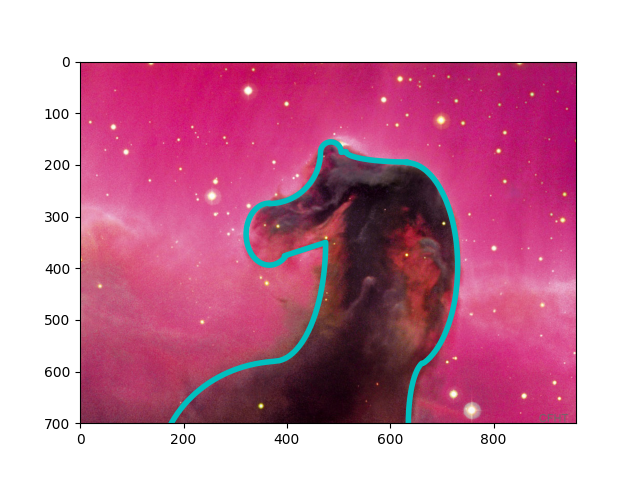
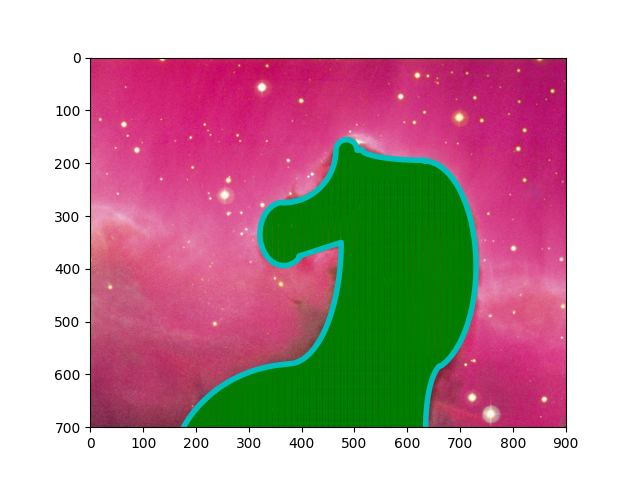
ffkyf

diff --git a/lec_1_scalar_fields.py b/lec_1_scalar_fields.py
@@ -1,0 +1,62 @@
+import numpy as np
+from scipy import interpolate
+import matplotlib.pyplot as plt
+import shapely.geometry as geom
+
+phi = np.linspace(0, 2*np.pi, 100)
+R = 1
+array_x = R * np.cos(phi)
+array_y = R * np.sin(phi)
+
+spline_coords, figure_spline_part = interpolate.splprep([array_x, array_y], s=0)
+spline_curve = interpolate.splev(figure_spline_part, spline_coords)
+
+curve_coords = []
+for i in range(len(spline_curve[0])):
+    curve_coords.append([spline_curve[0][i], spline_curve[1][i]])
+
+polygon = geom.Polygon(curve_coords)
+points_numper_per_side = 100
+x_pictures_limits = [-1.0, 1.0]
+y_pictures_limits = [-1.0, 1.0]
+
+points_coords = []
+for x_point_coord in np.linspace(*x_pictures_limits, points_numper_per_side):
+    for y_point_coord in np.linspace(*y_pictures_limits, points_numper_per_side):
+        p = geom.Point(x_point_coord, y_point_coord)
+        if p.within(polygon):
+            points_coords.append(x_point_coord)
+            points_coords.append(y_point_coord)
+
+x_p = np.array(points_coords[0::2])
+y_p = np.array(points_coords[1::2])
+
+def bell_function(x, y, intensity=1, dec_rate=[0.5, 0.5]):
+    scalar_func = intensity * np.exp(- dec_rate[0]*x**2 - dec_rate[1]*y**2) 
+    return scalar_func
+
+intensity_centerums_x = [-0.5, 0.5, -0.4, 0.0, 0.4]
+intensity_centerums_y = [0.3, 0.3, -0.5, -0.7, -0.5]
+intensity_values = [1.7, 1.7, 1, 0.7, 1]
+
+def scalar_function(x, y, int_cen_x, int_cen_y, int_vel):
+    scalar_field = 0.0
+    for i in range(0, len(int_cen_x)):
+        scalar_field += int_vel[i] * bell_function(x-int_cen_x[i], y-int_cen_y[i], 30, [5, 5])
+    return scalar_field
+
+scalar_fields = []
+for i in range(0, len(x_p)):
+    calculate = scalar_function(x_p[i], y_p[i], intensity_centerums_x, 
+                                intensity_centerums_y, intensity_values)
+    scalar_fields.append(calculate)
+
+fig, ax = plt.subplots()
+sc_plot = ax.scatter(x_p, y_p, c=scalar_fields)
+ax.set_ylabel('Координата Х, м')
+ax.set_xlabel('Координата Y, м')
+
+cbar = fig.colorbar(sc_plot)
+cbar.set_label("Комбинированное скалярное поле")
+
+plt.savefig('complex_scalar_fields.png')

diff --git a/lec_1_bell_function.py b/lec_1_bell_function.py
@@ -1,0 +1,52 @@
+import matplotlib.pyplot as plt 
+import numpy as np 
+from scipy import interpolate 
+import shapely.geometry as geom 
+ 
+ 
+ 
+phi = np.linspace(0, 2*np.pi, 100) 
+ 
+R = 1 
+array_x = R *np.cos(phi) 
+array_y = R *np.sin(phi) 
+ 
+spline_coords, figure_spline_part = interpolate.splprep([array_x, array_y], s=0) 
+spline_curve = interpolate.splev(figure_spline_part, spline_coords) 
+ 
+curve_coords = [] 
+points_coords = [] 
+ 
+for i in range(len(spline_curve[0])): 
+    curve_coords.append([spline_curve[0][i], spline_curve[1][i]]) 
+ 
+polygon = geom.Polygon(curve_coords) 
+points_number_per_side = 100 
+x_pictures_limits = [-1, 1] 
+y_pictures_limits = [-1, 1] 
+ 
+ 
+for x_point_coord in np.linspace(*x_pictures_limits, points_number_per_side): 
+    for y_point_coord in np.linspace(*y_pictures_limits, points_number_per_side): 
+        p = geom.Point(x_point_coord, y_point_coord) 
+        if p.within(polygon): 
+            points_coords.append(x_point_coord) 
+            points_coords.append(y_point_coord) 
+ 
+ 
+x_p = np.array(points_coords[0::2]) 
+y_p = np.array(points_coords[1::2]) 
+def bell_function(x, y, intensity = 1, dec_rate = [0.5, 0.5]): 
+    scalar_field = intensity * np.exp(-dec_rate[0] *x**2 - dec_rate[1] * y**2) 
+    return scalar_field 
+ 
+fig, ax = plt.subplots() 
+ 
+sc_plot = ax.scatter(x_p, y_p, c = bell_function(x_p, y_p, 5, [0.5, 0.5])) 
+ax.set_xlabel('координата x, м') 
+ax.set_ylabel('координата y, м') 
+ 
+cbar = fig.colorbar(sc_plot) 
+ 
+cbar.set_label('Инртенсивность скаляярного поля') 
+plt.savefig('dich2.png')

diff --git a/lec_1_head2.py b/lec_1_head2.py
@@ -1,6 +1,7 @@
 import matplotlib.pyplot as plt
 import numpy as np
 from scipy import interpolate
+import shapely.geometry as geom
 
 img = plt.imread('H.jpg')
 fig, ax = plt.subplots()
@@ -75,11 +76,28 @@ x = np.append(x, x9)
 y = np.append(y, y9)
 
 
+spline_coords, figure_spline_part = interpolate.splprep([x, y], s=0) 
+figure_spline_part_manual = np.arange(0, 0.5, 0.01) 
+spline_curve = interpolate.splev(figure_spline_part, spline_coords) 
+ 
+curve_coords = [] 
+for i in range(len(spline_curve[0])): 
+    curve_coords.append([spline_curve[0][i], spline_curve[1][i]]) 
+ 
+polygon = geom.Polygon(curve_coords) 
+points_number_per_side = 400 
+x_pictures_limits = [0, 900] 
+y_pictures_limits = [700, 0] 
+ 
+for x_point_coord in np.linspace(*x_pictures_limits, points_number_per_side): 
+    for y_point_coord in np.linspace(*y_pictures_limits, points_number_per_side): 
+        p = geom.Point(x_point_coord, y_point_coord) 
+        if p.within(polygon): 
+            plt.plot(x_point_coord, y_point_coord, 'go', ms = 0.5) 
 
-splire_coords, figure_spline_part = interpolate.splprep([x, y], s=0)
-figure_spline_part_manual = np.arange(0, 0.5, 0.01)
-spline_curve = interpolate.splev(figure_spline_part, splire_coords )
+
 
 plt.plot(spline_curve[0], spline_curve[1], 'c', lw=4)
 plt.ylim(700, 0)
+plt.xlim(0, 900)
 plt.savefig("horseapp.png")

diff --git a/orion.py b/orion.py
@@ -1,0 +1,41 @@
+import matplotlib.pyplot as plt
+import numpy as np
+from scipy import interpolate
+import shapely.geometry as geom
+
+img = plt.imread('Orion.jpg')
+fig, ax = plt.subplots()
+ax.imshow(img)
+
+t0 = np.linspace(np.pi,np.pi/1.9, 100)
+x0 = 305 + 40*np.cos(t0)
+y0 = 1125 - 175*np.sin(t0)
+ax.plot(x0, y0, '-', lw=2, color='c')
+
+t1 = np.linspace(np.pi, np.pi/1.85,100)
+x1 = 475 + 175*np.cos(t1)
+y1 = 950 - 100*np.sin(t1)
+ax.plot(x1, y1, '-', lw=2, color='c')
+
+t2 = np.linspace(np.pi,3*np.pi/2, 100)
+x2 = 450 + 100*np.cos(t2)
+y2 = 500 - 350*np.sin(t2)
+ax.plot(x2, y2, '-', lw=2, color='c')
+
+t3 = np.linspace(np.pi+np.pi/6.5,np.pi/3.1, 100)
+x3 = 440 + 100*np.cos(t3)
+y3 = 450 - 100*np.sin(t3)
+ax.plot(x3, y3, '-', lw=2, color='c')
+
+t5 = np.linspace(4.9*np.pi/6,np.pi/6, 100)
+x5 = 795 + 350*np.cos(t5)
+y5 = 565 - 350*np.sin(t5)
+ax.plot(x5, y5, '-', lw=2, color='c')
+
+t6 = np.linspace(np.pi,3*np.pi/2, 100)
+x6 = 11750 + 60*np.cos(t6)
+y6 = 450 - 300*np.sin(t6)
+ax.plot(x6, y6, '-', lw=2, color='c')
+
+
+plt.savefig("orion.png")

diff --git a/lec_1_importimage.py b/lec_1_importimage.py
@@ -1,7 +1,7 @@
 import matplotlib.pyplot as plt
 import numpy as np
 
-img = plt.imread('n.jpg')
+img = plt.imread('H.jpg')
 fig, ax = plt.subplots()
 ax.imshow(img, extent=[0, 1000, 0, 200])
 plt.ylim(0, 600)
